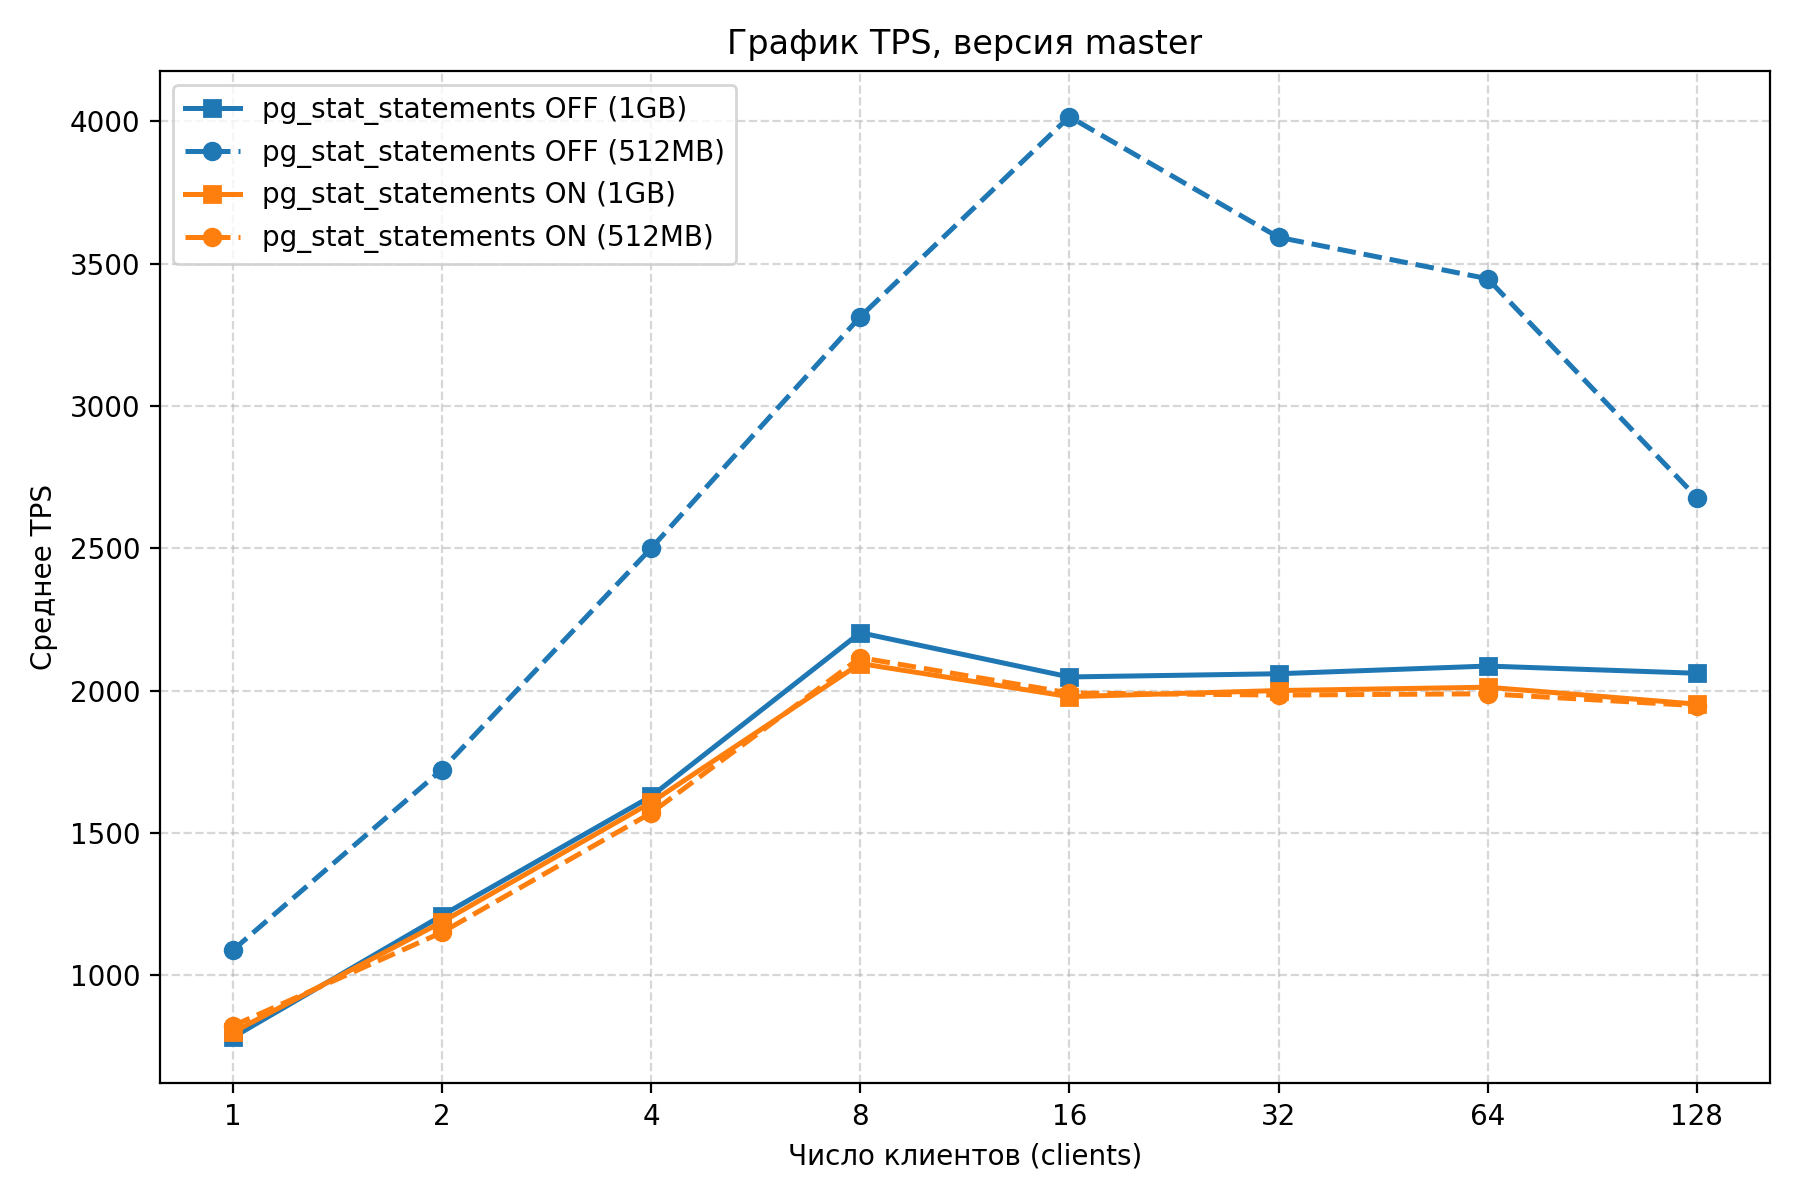
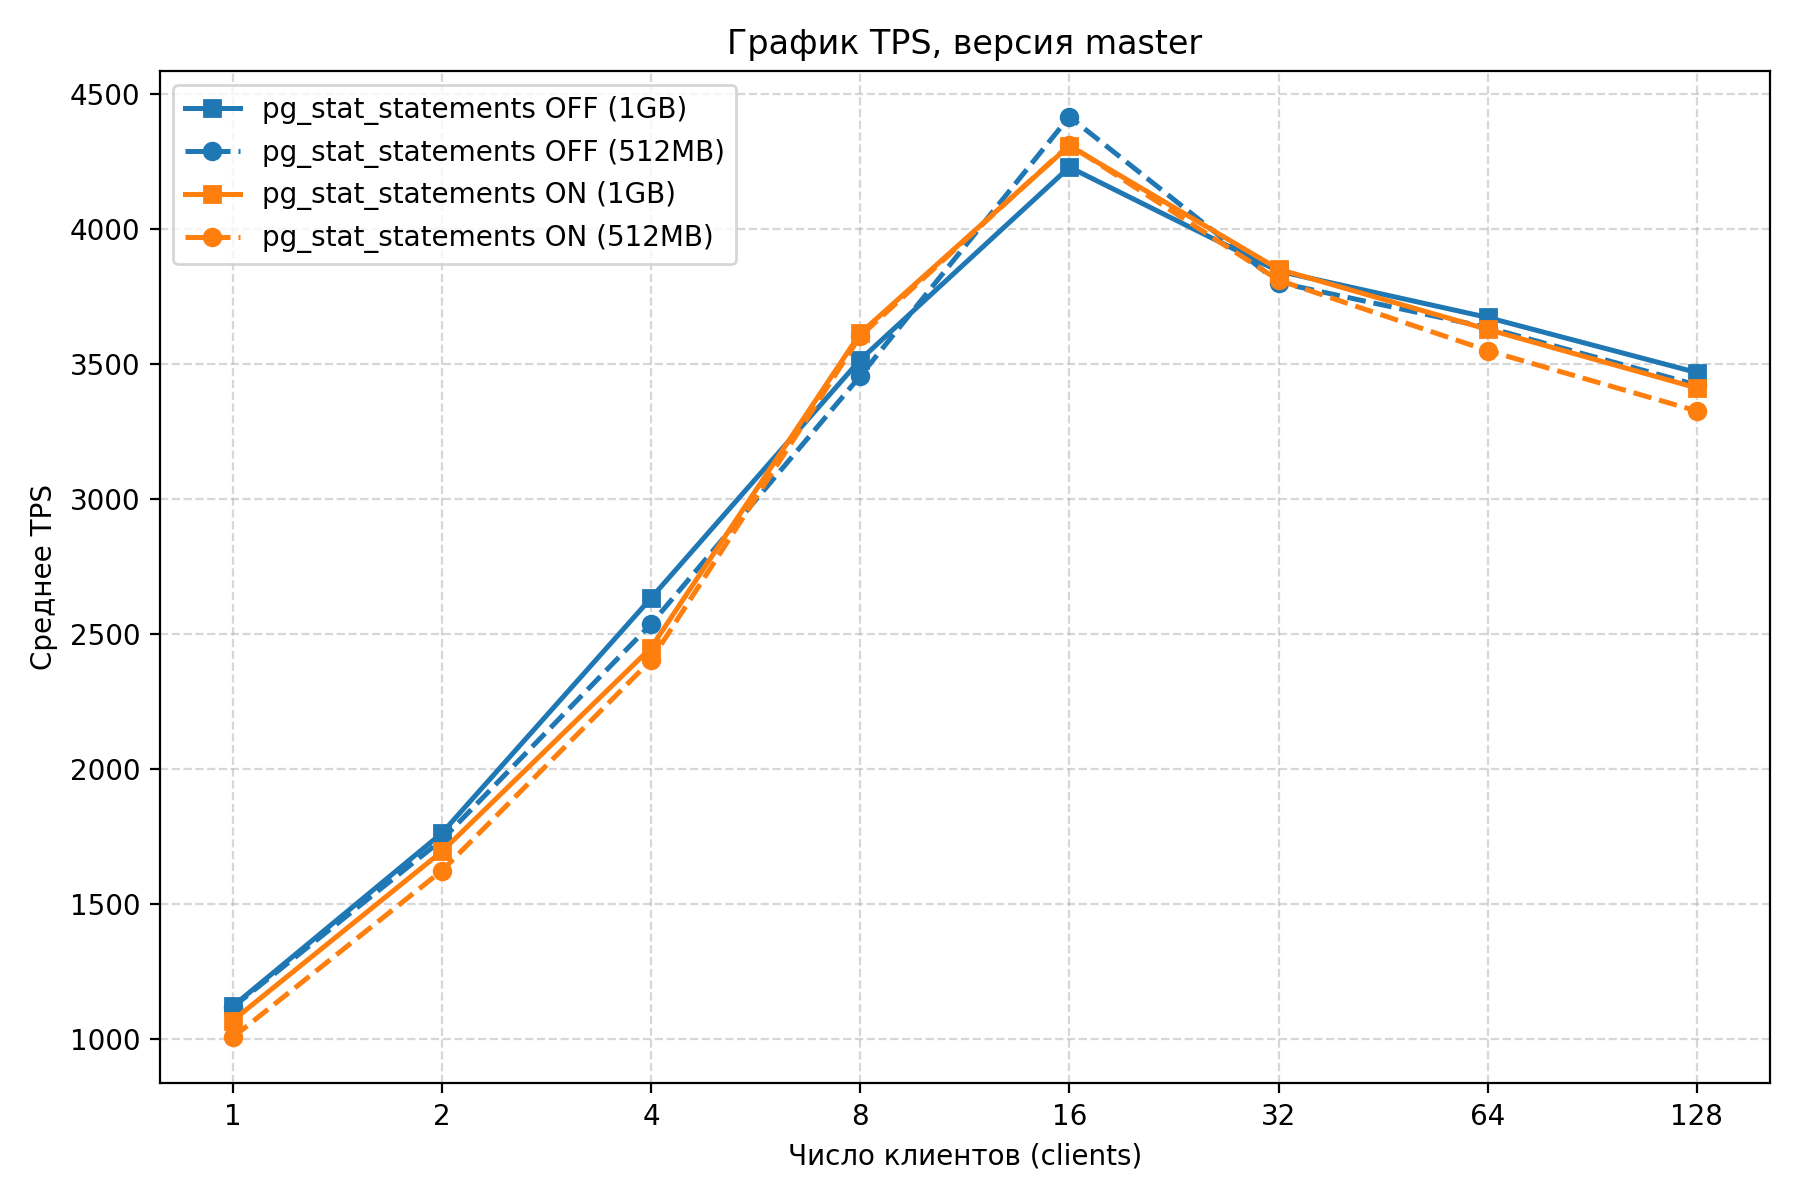
fix: remeasure pgbench statistics for master branch

diff --git a/python_benchmark_scripts/multirun_mgbench.py b/python_benchmark_scripts/multirun_mgbench.py
@@ -154,6 +154,13 @@ def main():
                     row = run_and_extract(buffers, clients, run_num)
                     writer.writerow(row)
                     f.flush()
+            if buffers == "512MB":
+                print()
+                print(">" * 41)
+                print("Ожидание охлаждения устройства (10 минут)")
+                print(">" * 41)
+                print()
+                time.sleep(600);
 
     # =============================================
     # Завершение

diff --git a/python_benchmark_scripts/two_files_lat_graphic_pgbench.py b/python_benchmark_scripts/two_files_lat_graphic_pgbench.py
@@ -9,7 +9,7 @@ import sys
 USED_VERSION = sys.argv[1]
 FILES = {
     "pg_stat_statements OFF": f"results_{USED_VERSION}_base.csv",
-    "pg_stat_statements ON": f"results_{USED_VERSION}_exc.csv",
+    "pg_stat_statements ON": f"results_{USED_VERSION}_ext.csv",
 }
 
 FILE_COLORS = {

diff --git a/python_benchmark_scripts/two_files_tps_graphic_pgbench.py b/python_benchmark_scripts/two_files_tps_graphic_pgbench.py
@@ -9,7 +9,7 @@ import sys
 USED_VERSION = sys.argv[1]
 FILES = {
     "pg_stat_statements OFF": f"results_{USED_VERSION}_base.csv",
-    "pg_stat_statements ON": f"results_{USED_VERSION}_exc.csv",
+    "pg_stat_statements ON": f"results_{USED_VERSION}_ext.csv",
 }
 
 FILE_COLORS = {
